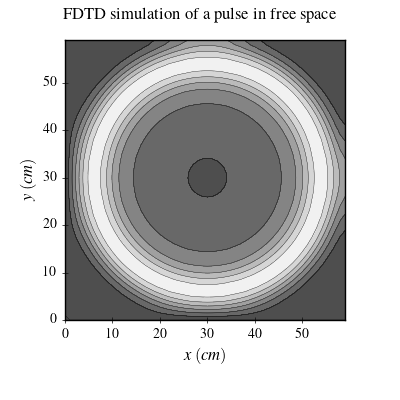
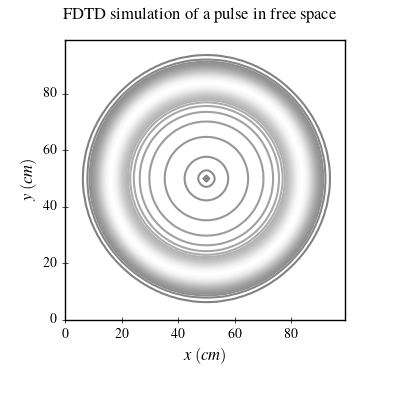
simulation of a pulse in free space in the transverse magnetic mode

diff --git a/fd2d/python/fd2d_3_1.py b/fd2d/python/fd2d_3_1.py
@@ -18,7 +18,7 @@ def surfaceplot(ns: int, nx: int, ny: int, ez: np.ndarray) -> None:
     fig, ax = plt.subplots(subplot_kw={"projection":"3d"})
     fig.suptitle(r"FDTD simulation of a pulse in free space")
     yv, xv = np.meshgrid(range(ny), range(nx))
-    ax.plot_surface(xv, yv, ez, rstride=1, cstride=1, cmap="gray", lw=0.25)
+    ax.plot_surface(xv, yv, ez, rstride=1, cstride=1, cmap="gray", lw=10/nx)
     ax.text2D(0.1, 0.7, rf"$T$ = {ns}", transform=ax.transAxes)
     ax.set(xlim=(0, nx), ylim=(0, ny), zlim=(0, 1))
     ax.set(xlabel=r"$x\;(cm)$", ylabel=r"$y\;(cm)$", zlabel=r"$E_z\;(V/m)$")
@@ -29,9 +29,9 @@ def surfaceplot(ns: int, nx: int, ny: int, ez: np.ndarray) -> None:
 def contourplot(ns: int, nx: int, ny: int, ez: np.ndarray) -> None:
     fig, ax = plt.subplots(figsize=(4,4), gridspec_kw={"hspace":0.2})
     fig.suptitle(r"FDTD simulation of a pulse in free space")
-    yv, xv = np.meshgrid(range(ny), range(nx))
-    ax.contourf(xv, yv, ez, cmap="gray", alpha=0.75)
-    ax.contour(xv, yv, ez, colors="k", linewidths=0.25)
+    yv, xv = np.meshgrid(range(ny), range(nx)); ezmax = np.abs(ez).max()
+    levels = np.linspace(-ezmax, ezmax, int(2/0.04))
+    ax.contour(xv, yv, ez, levels, cmap="gray", linewidths=1.5)
     ax.set(xlim=(0, nx-1), ylim=(0, ny-1), aspect="equal")
     ax.set(xlabel=r"$x\;(cm)$", ylabel=r"$y\;(cm)$")
     plt.subplots_adjust(bottom=0.2, hspace=0.45)
@@ -72,10 +72,10 @@ def hfield(nx: int, ny: int, ez: np.ndarray, hx: np.ndarray, hy: np.ndarray) -> 
 
 def main():
 
-    nx: int = 60  # number of grid points
-    ny: int = 60  # number of grid points
+    nx: int = 100  # number of grid points
+    ny: int = 100  # number of grid points
 
-    ns: int = 70  # number of time steps
+    ns: int = 90  # number of time steps
 
     dz = np.zeros((nx, ny), dtype=np.float64)
     ez = np.zeros((nx, ny), dtype=np.float64)
